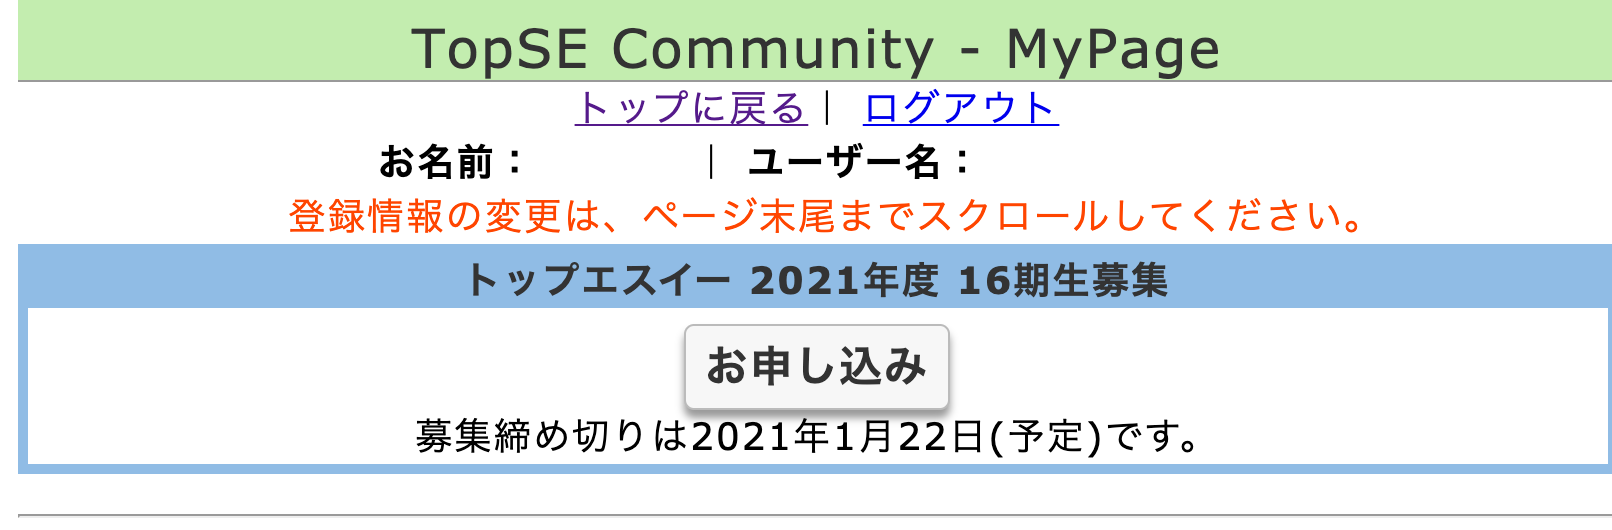
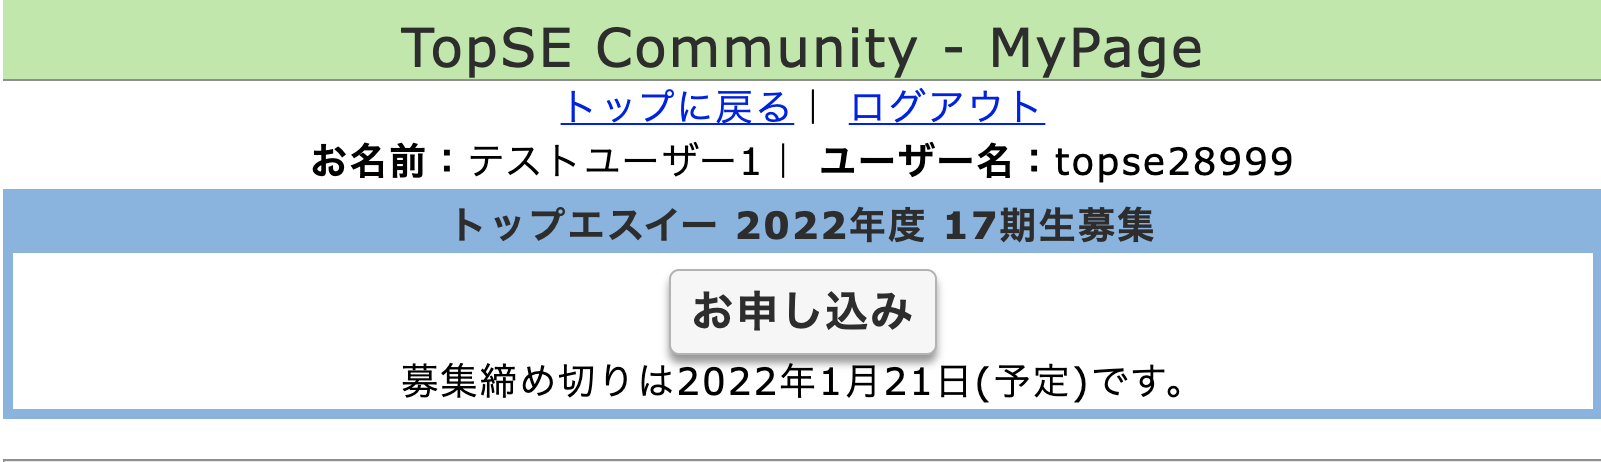
募集開始関連
募集開始関連

Changed region(s): [[0.0, 0.0, 1.0, 0.9091], [0.0, 0.9697, 1.0, 1.0]]

diff --git a/ja/admission-application.html b/ja/admission-application.html
@@ -59,7 +59,6 @@ width:100%;
             このページでは，トップエスイーコースおよびアドバンス・トップエスイーコースの応募について説明しています．本ページの記載について，特に注釈がないものは，トップエスイーコースおよびアドバンス・トップエスイーコースのいずれにも該当します．また，協賛企業より受講される方（「協賛企業推薦」と表記），その他の企業より受講される方（「企業派遣」と表記），前記のいずれにも属さない方（「一般受講」と表記）で一部内容が異なるものもあります．</p>
         <p>トップエスイーセミナーシリーズは，セミナーごとのお申し込みとなりますので，申し込み可能なコースなどは<a title="トップエスイーセミナー"
                                                                   href="seminar.html">こちら</a>をご覧ください．</p>
-<!--
         <h3 class="box">2022年度，第17期生の募集を開始します</h3>
         <p>ソフトウェア開発に関する情熱では誰にも負けない，以下のような方々は，是非トップエスイー受講をご検討ください．</p>
         <ul>
@@ -70,17 +69,13 @@ width:100%;
         <p><a href="collaboration.html">協賛企業</a>の皆様には，意欲溢れる有能な受講生をご推薦頂きたく存じます．協賛企業に所属し，受講を希望される方は，上司の方の許可を得たうえでお申し込みください．ご担当者が不明の場合には，トップエスイープロジェクト事務局までお問い合わせください．
         </p>
         <p>17期生募集のリーフレットのPDFは<a href=/images/第17期生募集パンフレット.pdf>こちら</a>からダウンロードできます．</p>
-        <p id="prostudy21SYAL">17期生用<a href="https://files.topse.jp/講座説明会事務手続き説明ビデオ.mp4">講座説明会事務手続き説明ビデオ</a>及び<a href="https://files.topse.jp/第17期生向け講座説明会資料.zip">講座説明会資料</a>を掲載しました．
-        <!-- <br>(録画ファイルにつきましては, ダウンロード後のトップフォルダ内にあるDefault.htmlをクリックして頂きますと, ビデオを視聴できる画面がブラウザ上で開きます) </p> -->
-        <!---<p>講座説明会資料<a href="https://nii.ac/801f" target="_blank">こちら</a>からダウンロードできます．</p>-->
 <!--
-        <p>講座説明会ビデオは<a href="https://files.topse.jp//topsevideo2020/トップエスイー第16期生向け講座説明会.mp4" target="_blank">こちら</a>から再生、及びダウンロードできます．
-        </p>
--->
+        <p id="prostudy21SYAL">17期生用<a href="https://files.topse.jp/講座説明会事務手続き説明ビデオ.mp4">講座説明会事務手続き説明ビデオ</a>及び<a href="https://files.topse.jp/第17期生向け講座説明会資料.zip">講座説明会資料</a>を掲載しました．
+
         <div style="border: solid 2px red; padding: 10px; font-size: 1.5em; font-weight: bold; text-align: center; color: red; border-radius: 12px;margin-bottom: 12px;">
-        2021年11月26日（金）より、2022年度(第17期)受講生の募集を開始予定です。<!--<br>募集は2020年12月4日開始です．-->
+        2021年11月26日（金）より、2022年度(第17期)受講生の募集を開始予定です。<br>募集は2020年12月4日開始です．
         </div>
-        
+-->
 
     </div>
 </section>
@@ -327,7 +322,6 @@ width:100%;
     </div>
 </section>
 -<p>
-<!--
 <section>
     <div class="container">
         <div class="col-md-12">
@@ -398,7 +392,6 @@ width:100%;
         </div>
     </div>
 </section>
--->
 <!---<p>
 <section></section>
 

diff --git a/ja/index.html b/ja/index.html
@@ -58,6 +58,7 @@
         <div class="col-md-12 col-lg-6" style="text-align: center;">
             <h2 style="text-align:left;">Hot Topics</h2>
             <ul style="text-align:left;">
+            <li class="hotItems">2021-11-26 <a href="https://www.topse.jp/ja/admission-application.html">2022年度17期生募集要項</a>を掲載しました</li>
             <li class="hotItems">2021-11-23 <a href="https://www.topse.jp/ja/admission-faq.html">FAQのページ</a>を更新しました</li>
              <li class="hotItems">2021-11-23 2022年度カリキュラムの以下の項目について掲載しました.
              <p>　(<a href="https://www.topse.jp/ja/curriculum-lectures.html">講義</a>・<a href="https://www.topse.jp/ja/curriculum-teachers.html">講師</a>・<a href="https://www.topse.jp/ja/curriculum-timetable.html">時間割</a>)</p></li>
@@ -72,7 +73,6 @@
             新型コロナウイルス感染症の拡散防止に伴う3月19日に予定されていた
             <br><a href="https://www.topse.jp/ja/admission-sympo.html">トップエスイーシンポジウム・修了式</a>
             <br>中止のお知らせ</li>
-            <li class="hotItems">2020-12-04 <a href="https://www.topse.jp/ja/admission-application.html">2021年度16期生募集要項</a>を掲載しました</li>
             <li class="hotItems">2020-11-26 <a href="https://www.topse.jp/ja/admission-faq.html">FAQのページ</a>　16期生（2021年度）における新型コロナ対応を追加しました</li>
             <li class="hotItems">2020-11-20 2021年度カリキュラムの以下の項目について掲載しました.
             <p>　(<a href="https://www.topse.jp/ja/curriculum-lectures.html">講義</a>・<a href="https://www.topse.jp/ja/curriculum-teachers.html">講師</a>・<a href="https://www.topse.jp/ja/curriculum-timetable.html">時間割</a>)</p></li>
